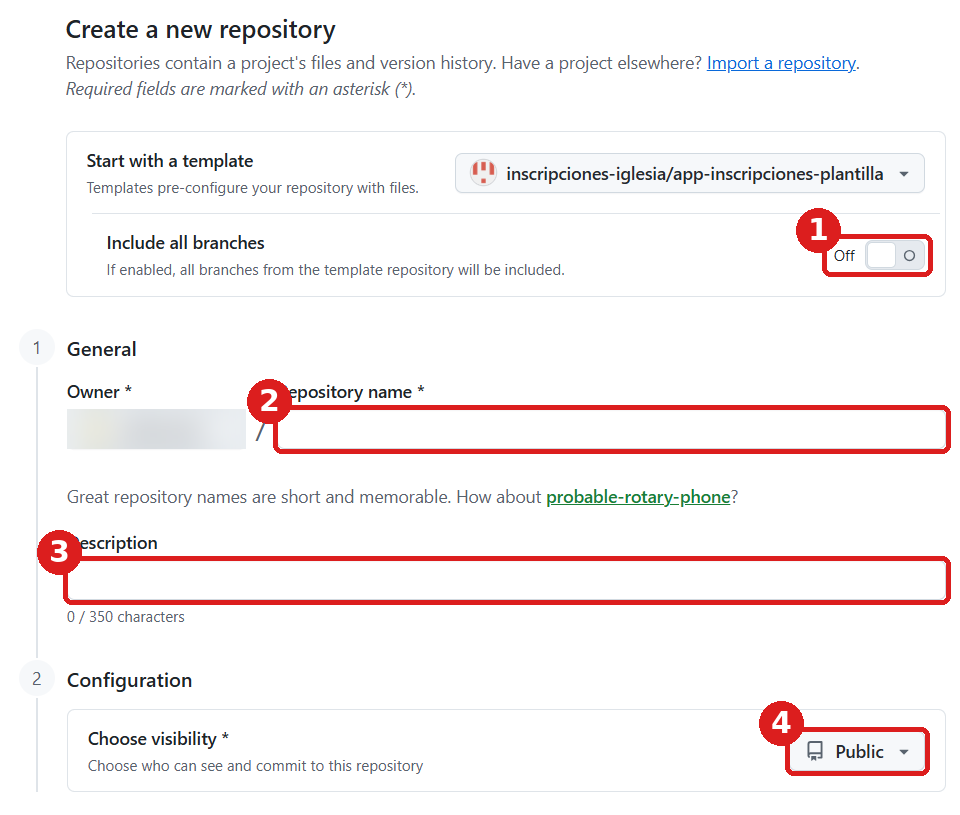
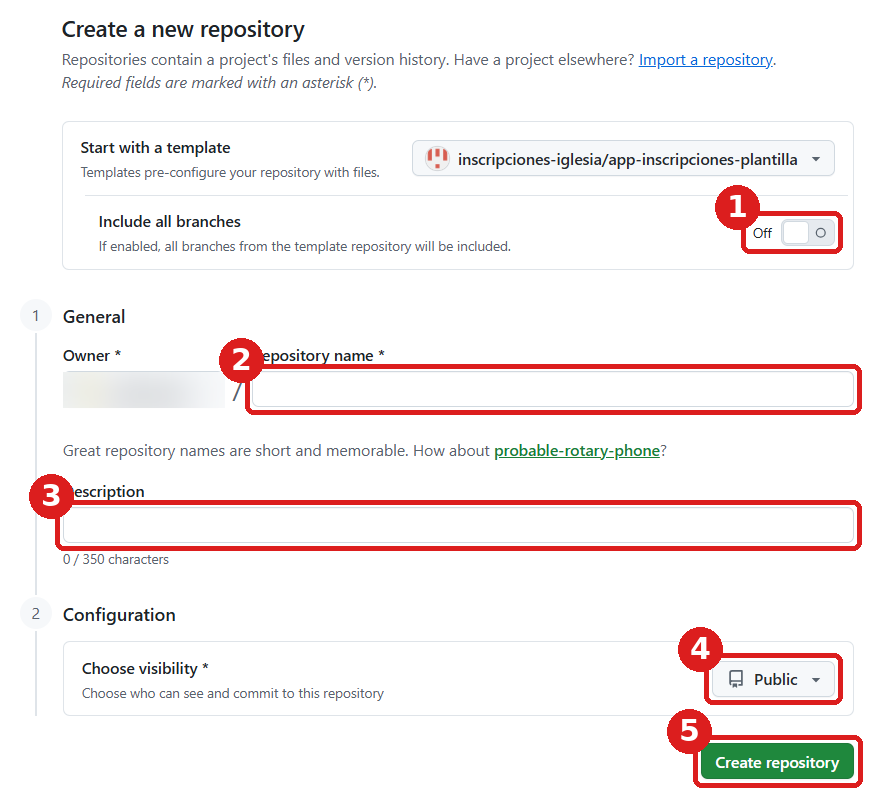
Versión 0.1.0 (2026-10-19)

diff --git a/herramientas/carpeta/marcar_capturas.py b/herramientas/carpeta/marcar_capturas.py
@@ -20,7 +20,7 @@ CAPTURAS = {
     'supabase-llave-1': ('51db0d4f-image.png', None, [(584, 102, 970, 217, '1'), (586, 493, 968, 600, '2'), (801, 815, 970, 857, '4')], []),
     'supabase-llave-2': ('f7564733-image.png', None, [(604, 116, 981, 166, '3'), (821, 652, 981, 692, '4')], [(612, 0, 858, 28)]),
     'github-plantilla': ('c246c26b-image.png', (0, 80, 1895, 520), [(1535, 221, 1704, 264, '1')], [(1820, 90, 1880, 140)]),
-    'github-copia-formulario': ('3224a151-image.png', (440, 80, 1400, 895), [(1262, 314, 1372, 356, '1'), (713, 485, 1390, 533, '2'), (503, 636, 1390, 684, '3'), (1225, 807, 1369, 855, '4')], [(507, 489, 686, 529), (1830, 5, 1880, 50)]),
+    'github-copia-formulario': ('99b8ce8c-image.png', (480, 135, 1360, 930), [(1221, 346, 1322, 388, '1'), (725, 499, 1341, 549, '2'), (535, 635, 1341, 685, '3'), (1184, 788, 1322, 839, '4'), (1173, 870, 1342, 922, '5')], [(543, 507, 705, 543)]),
     'github-instalacion-terminada': ('8040061f-image.png', (340, 180, 1880, 490), [(366, 252, 655, 292, '')], [(455, 303, 1300, 394)]),
 }
 

diff --git a/herramientas/carpeta/textos/2-instalacion.md b/herramientas/carpeta/textos/2-instalacion.md
@@ -111,7 +111,7 @@ GitHub guarda el programa de la aplicación y hace las tareas automáticas (inst
    - **Choose visibility** (quién lo puede ver): **viene en «Public»; hay que cambiarlo**: tocar «Public» y elegir **Private** (privado: solo lo ve la institución).
    - Tocar **Create repository** (crear repositorio) y esperar unos segundos.
 
-![Formulario de la copia: (1) Include all branches en «Off», (2) nombre app-inscripciones, (3) Description vacío, (4) cambiar Public por Private](img/github-copia-formulario.png)
+![Formulario de la copia: (1) Include all branches en «Off», (2) nombre app-inscripciones, (3) Description vacío, (4) cambiar Public por Private, (5) Create repository](img/github-copia-formulario.png)
 
 
 > 📝 **Anotá en la hoja:** C5 (la dirección del repositorio, por ejemplo github.com/inscripciones-laspalmas/app-inscripciones).
